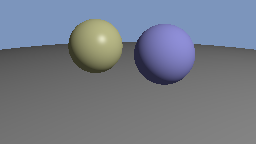
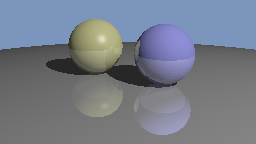
Complete, but maybe mirror is too shiny

Changed region(s): [[0.1562, 0.2778, 0.75, 0.6111], [0.5312, 0.6667, 0.75, 0.9444], [0.3125, 0.6111, 0.5, 0.8333]]

diff --git a/ray.py b/ray.py
@@ -4,13 +4,13 @@ from utils import *
 
 """
 Core implementation of the ray tracer.  This module contains the classes (Sphere, Mesh, etc.)
-that define the contents of scenes, as well as classes (Ray, Hit) and functions (shade) used in 
+that define the contents of scenes, as well as classes (Ray, Hit) and functions (shade) used in
 the rendering algorithm, and the main entry point `render_image`.
 
 In the documentation of these classes, we indicate the expected types of arguments with a
 colon, and use the convention that just writing a tuple means that the expected type is a
 NumPy array of that shape.  Implementations can assume these types are preconditions that
-are met, and if they fail for other type inputs it's an error of the caller.  (This might 
+are met, and if they fail for other type inputs it's an error of the caller.  (This might
 not be the best way to handle such validation in industrial-strength code but we are adopting
 this rule to keep things simple and efficient.)
 """
@@ -149,7 +149,50 @@ class Triangle:
           Hit -- the hit data
         """
         # TODO A4 implement this function
-        return no_hit
+        vs = self.vs
+
+        a = vs[0][0] - vs[1][0]
+        b = vs[0][1] - vs[1][1]
+        c = vs[0][2] - vs[1][2]
+        d = vs[0][0] - vs[2][0]
+        e = vs[0][1] - vs[2][1]
+        f = vs[0][2] - vs[2][2]
+
+        ray_dir = ray.direction
+        ray_orig = ray.origin
+
+        g = ray_dir[0]
+        h = ray_dir[1]
+        i = ray_dir[2]
+        j = vs[0][0] - ray_orig[0]
+        k = vs[0][1] - ray_orig[1]
+        l = vs[0][2] - ray_orig[2]
+
+        M = a * (e * i - h * f) + b * (g * f - d * i) + c * (d * h - e * g)
+
+        t = -(f * (a * k - j * b) + e * (j * c - a * l) + d *
+              (b * l - k * c)) / M
+
+        if (t < ray.start or t > ray.end):
+            return no_hit
+
+        gamma = (i * (a * k - j * b) + h * (j * c - a * l) + g *
+                 (b * l - k * c)) / M
+
+        if (gamma < 0 or gamma > 1):
+            return no_hit
+
+        beta = (j * (e * i - h * f) + k * (g * f - d * i) +
+                l * (d * h - e * g)) / M
+
+        if (beta < 0 or beta > 1 - gamma):
+            return no_hit
+
+        P = ray_orig + t * ray_dir
+
+        unit_normal = normalize(np.cross(vs[0] - vs[2], vs[1] - vs[2]))
+
+        return Hit(t, P, unit_normal, self.material)
 
 
 class Camera:
@@ -178,7 +221,7 @@ class Camera:
         """Compute the ray corresponding to a point in the image.
 
         Parameters:
-          img_point : (2,) -- a 2D point in [0,1] x [0,1], where (0,0) is the lower left 
+          img_point : (2,) -- a 2D point in [0,1] x [0,1], where (0,0) is the lower left
                       corner of the image and (1,1) is the upper right
         Return:
           Ray -- The ray corresponding to that image location (not necessarily normalized)
@@ -222,28 +265,35 @@ class PointLight:
           (3,) -- the light reflected from the surface
         """
         # TODO A4 implement this function
-        #diffuse shading
-        intensity = self.intensity
-        position = self.position
-        normal = hit.normal
-        dist_to_source = np.linalg.norm(hit.point - position)
-        diffuse_coeff = hit.material.k_d
-        v = (-1) * normalize(ray.direction)
-        light_ray = normalize(position - hit.point)
-        specular_coeff = hit.material.k_s
-        p = hit.material.p
+        l = self.position - hit.point
+        epsilon = 0.000001
+        point = hit.point + l*epsilon
+        shadow_ray = Ray(point, l, epsilon, 1)
 
-        #diffuse shading
-        #diffuse_output = diffuse_coeff * (np.maximum(0, np.dot(normal, light_ray)) / (dist_to_source ** 2)) * intensity
-        #specular shading
-        #shadRay = Ray(hit.point, position - hit.point)
-        shade_ray = Ray(hit.point, light_ray)
-        if (scene.intersect(shade_ray).t == no_hit):
-            h = (v + light_ray) / np.linalg.norm(v + light_ray)
-            specular_output = (diffuse_coeff + specular_coeff * ((np.dot(normal, h)) ** p)) * (np.maximum(0, np.dot(normal, light_ray)) / (dist_to_source ** 2)) * intensity
-            return specular_output
-        else:
-            return (0,0,0)
+        if (scene.intersect(shadow_ray).t > 1):
+
+            # diffuse shading
+            intensity = self.intensity
+            position = self.position
+            normal = hit.normal
+            dist_to_source = np.linalg.norm(hit.point - position)
+            diffuse_coeff = hit.material.k_d
+            v = (-1) * normalize(ray.direction)
+            light_ray = normalize(position - hit.point)
+            specular_coeff = hit.material.k_s
+            p = hit.material.p
+
+            # diffuse shading
+            # diffuse_output = diffuse_coeff * (np.maximum(0, np.dot(normal, light_ray)) / (dist_to_source ** 2)) * intensity
+            # specular shading
+            shade_ray = Ray(hit.point, light_ray, epsilon)
+            if (scene.intersect(shade_ray).t == np.inf):
+                h = (v + light_ray) / np.linalg.norm(v + light_ray)
+                specular_output = (diffuse_coeff + specular_coeff * ((np.dot(normal, h)) ** p)) * (
+                    np.maximum(0, np.dot(normal, light_ray)) / (dist_to_source ** 2)) * intensity
+                return specular_output
+
+        return vec([0, 0, 0])
 
 
 class AmbientLight:
@@ -326,14 +376,28 @@ def shade(ray, hit, scene, lights, depth=0):
     """
     bg_color = scene.bg_color
 
-    #stub in shading
-    if (hit == no_hit):
-        return bg_color
-    else:
-        output = (0,0,0)
+    if (hit.t < np.inf):
+        output = vec([0, 0, 0])
+
+        if (depth < MAX_DEPTH):
+            normal = hit.normal
+            r_dir = ray.direction
+            normal = hit.normal
+            m_dir = r_dir - 2 * np.dot(r_dir, normal) * normal
+            m_ray = Ray(hit.point, m_dir, 0.0000001, np.inf)
+            m_hit = scene.intersect(m_ray)
+            if (m_hit != no_hit):
+                output = output + m_hit.material.k_m * \
+                    shade(m_ray, m_hit, scene, lights, depth + 1)
+
         for light in lights:
             output = output + light.illuminate(ray, hit, scene)
+
         return output
+
+    else:
+        return bg_color
+
 
 def render_image(camera, scene, lights, nx, ny):
     """Render a ray traced image.
@@ -348,21 +412,8 @@ def render_image(camera, scene, lights, nx, ny):
     """
     # TODO A4 implement this function
     img = np.zeros((ny, nx, 3), np.float32)
-    bg_color = scene.bg_color
-    #step1
-    """surf = scene.surfs[0]
-    for x in range(0, nx):
-        for y in range(0, ny):
-            u = (x + 0.5) / nx
-            v = (y + 0.5) / ny
-            ray = camera.generate_ray((u, v))
-            if (surf.intersect(ray).t < np.inf):
-                img[y][x] = (255, 255, 255)
-            else:
-                img[y][x] = (0,0,0)"""
 
-    surfs = scene.surfs
-    for x in range (0, nx):
+    for x in range(0, nx):
         for y in range(0, ny):
             u = (x + 0.5) / nx
             v = (y + 0.5) / ny
